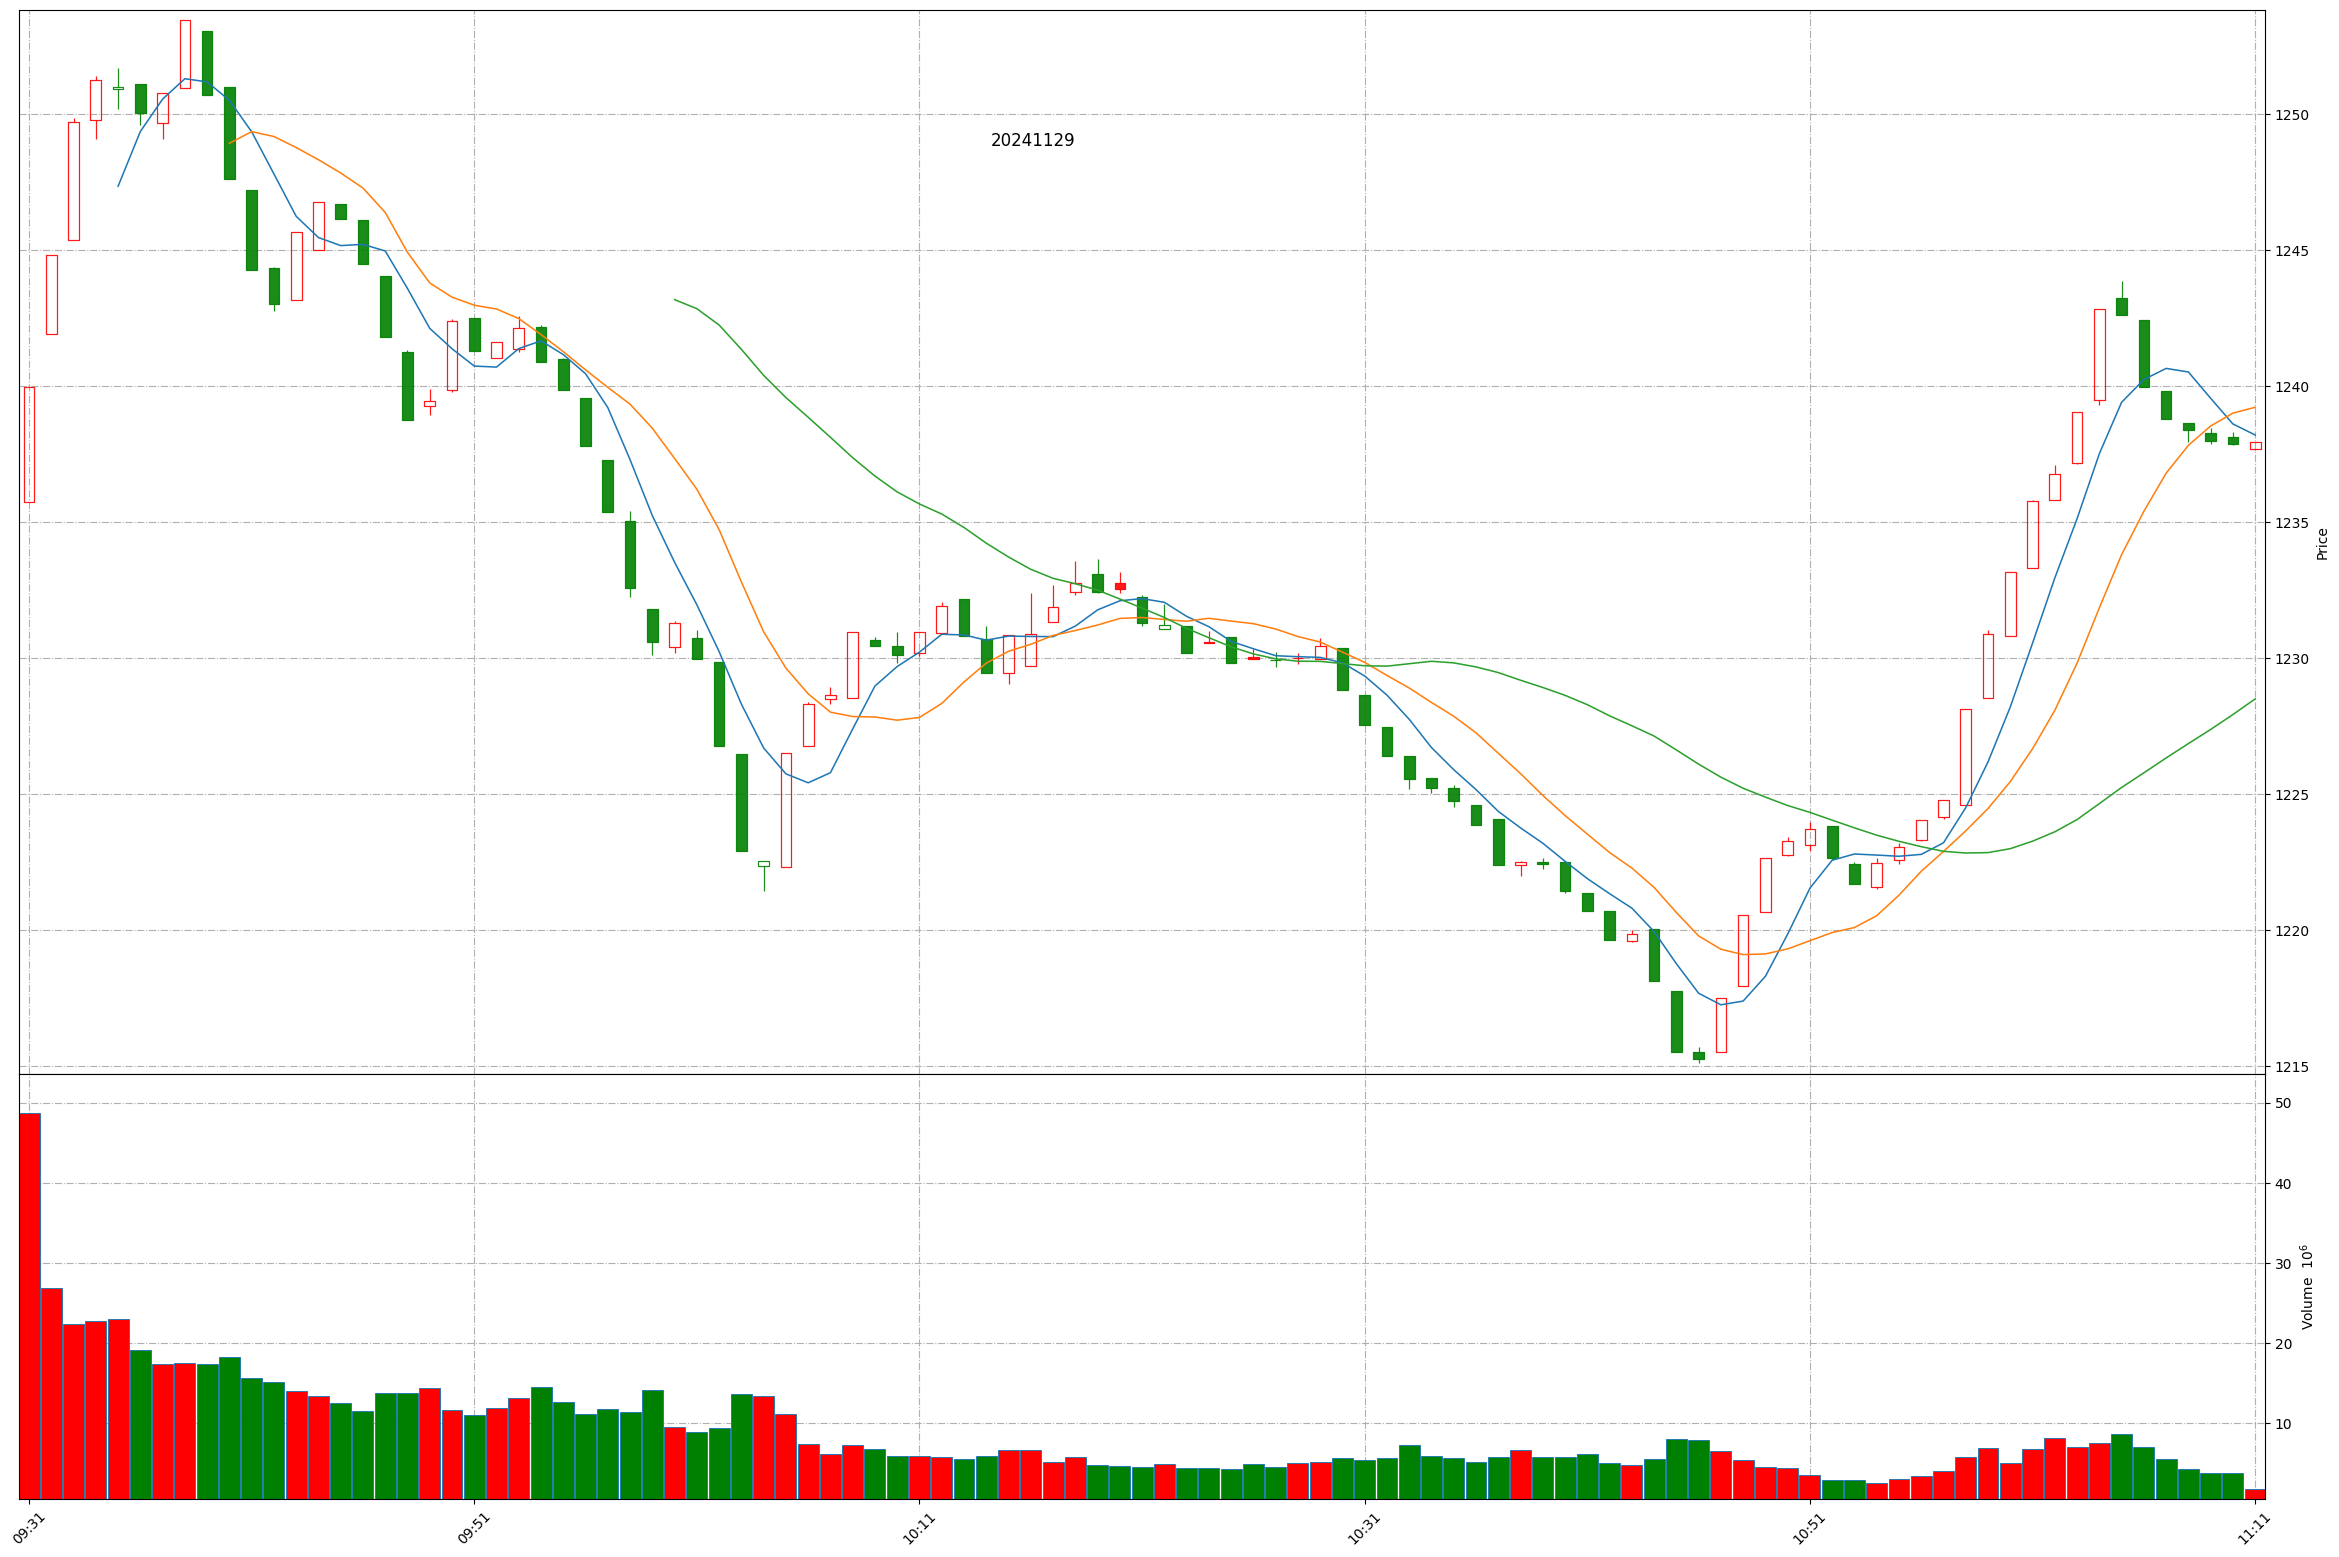
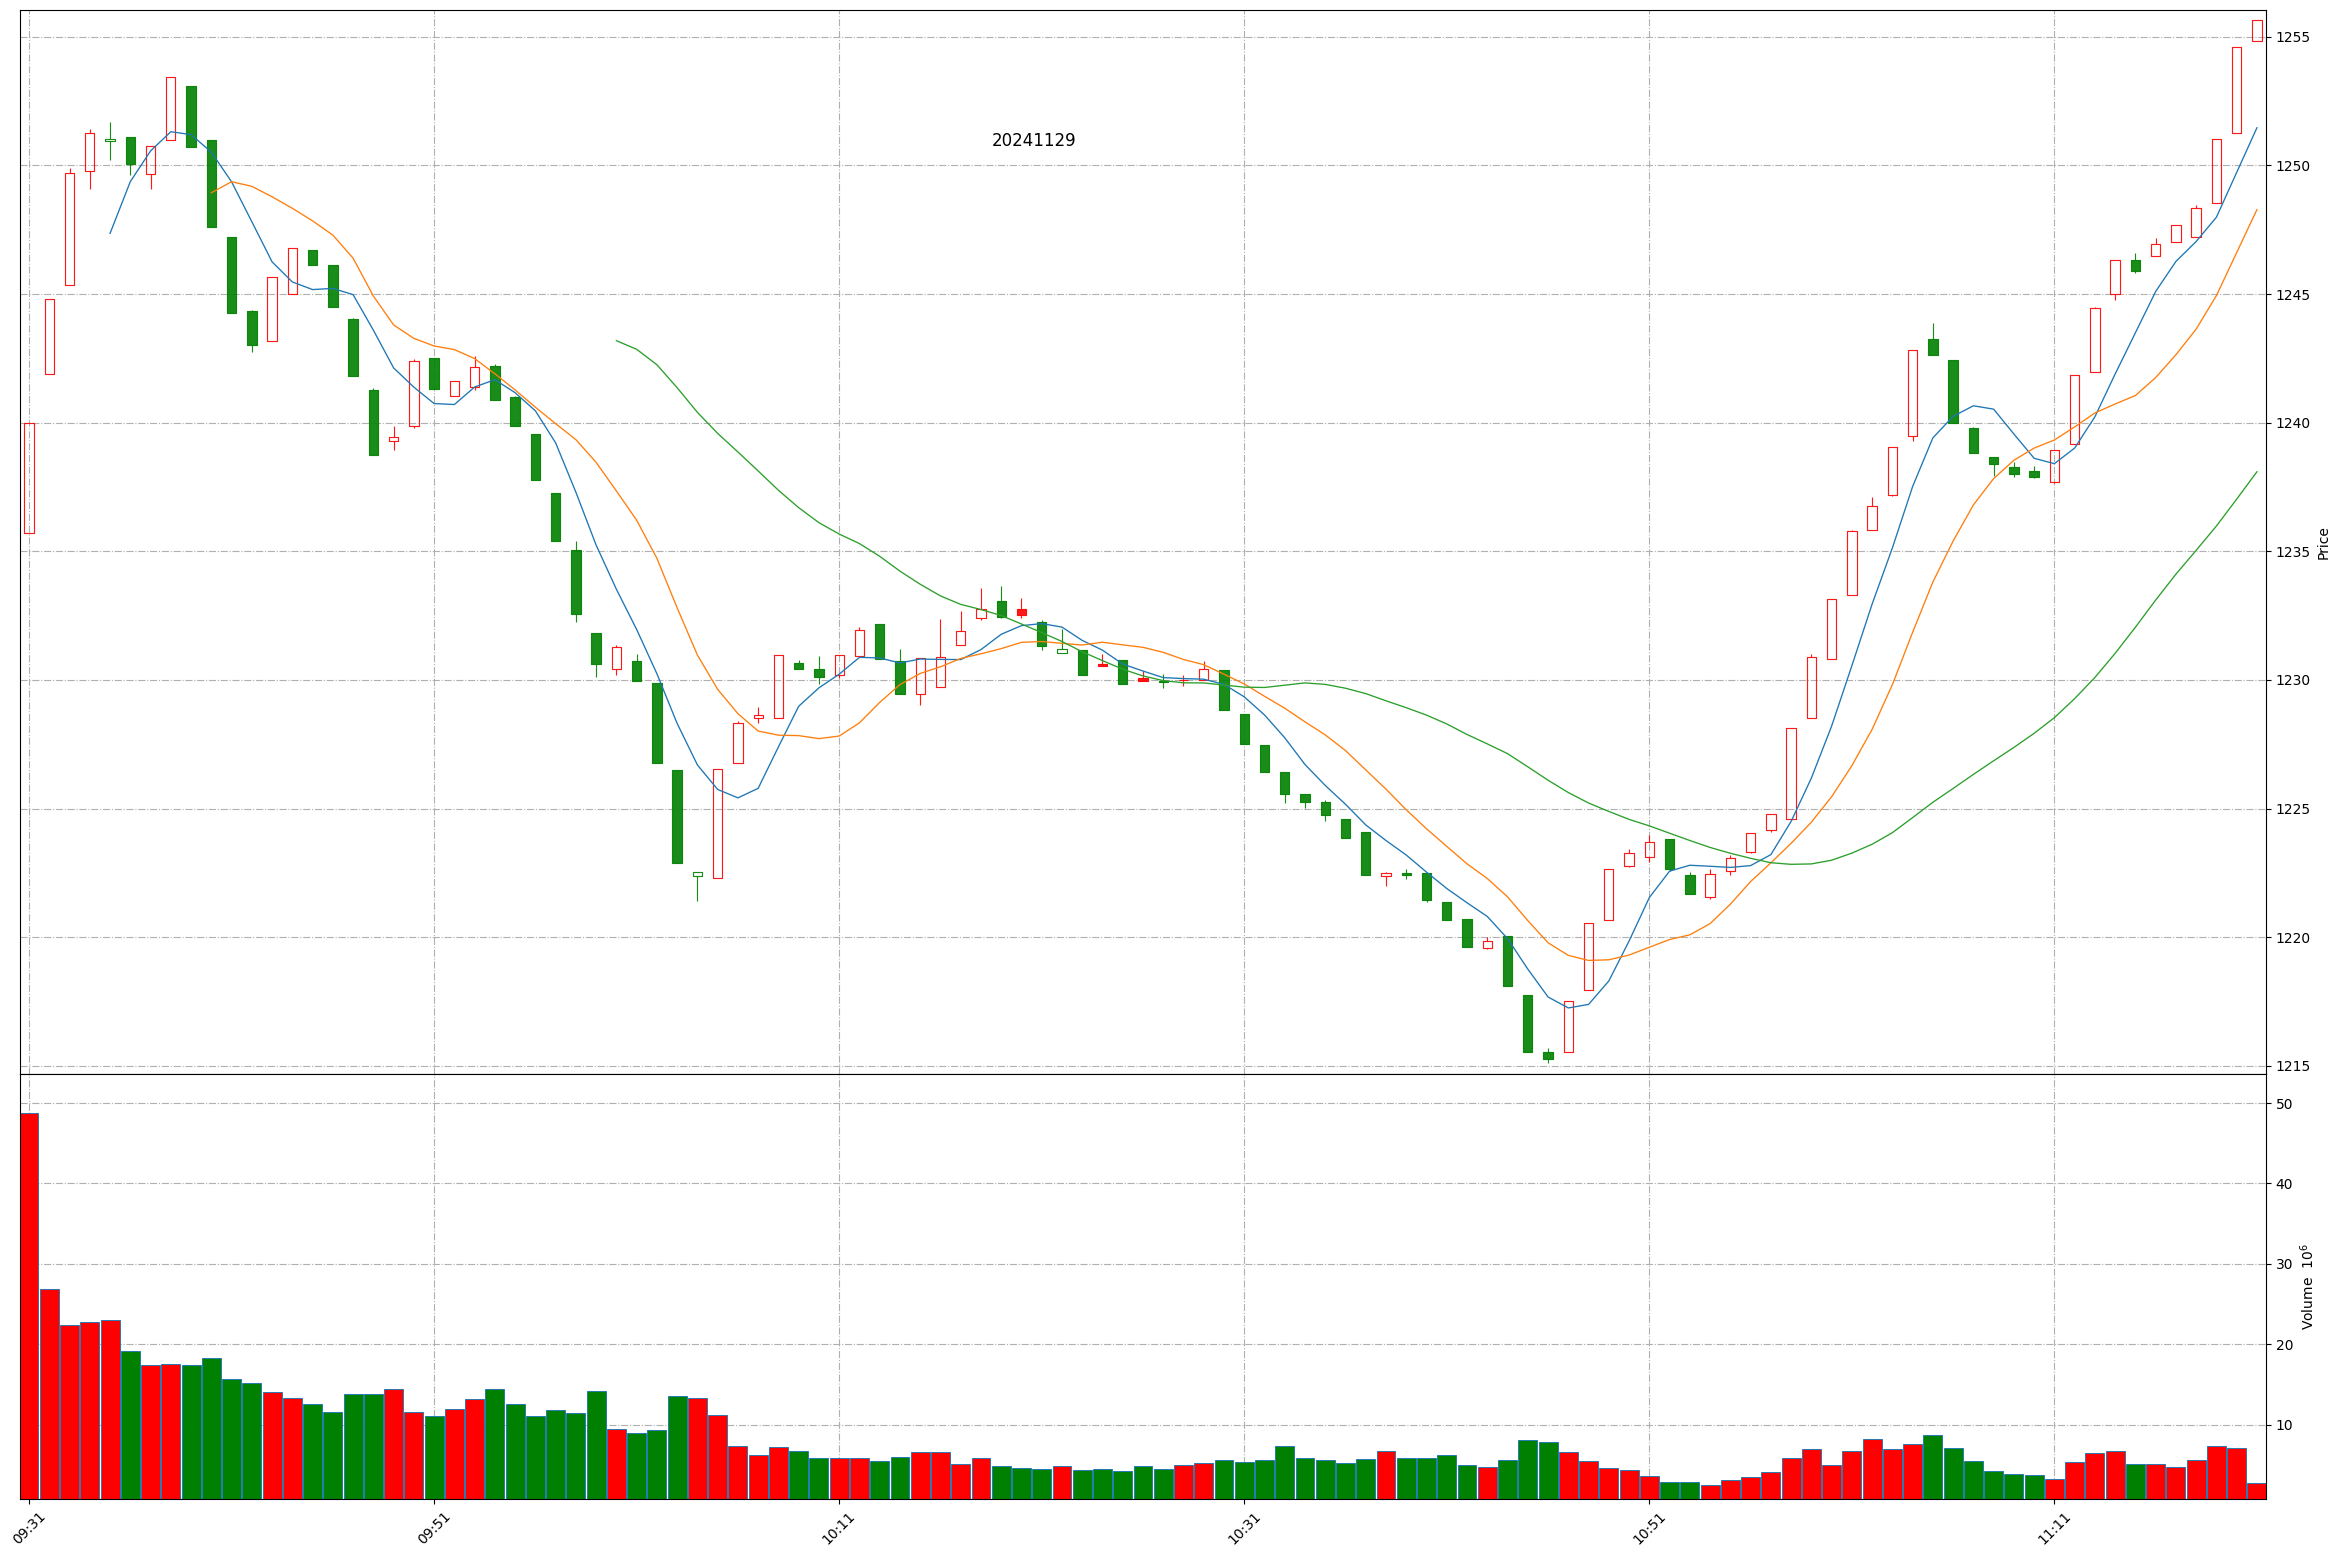
Github action update at 2024-11-29 11:20:30.

diff --git a/README.md b/README.md
@@ -1,11 +1,11 @@
 
 # Daily-A-share-market-quotes 每日 A 股指数（5min 更新）- 20241129
 
-### 上证指数 20241129 11:10
+### 上证指数 20241129 11:20
 ![](./fig/2024/11/20241129-sh000001.png)
 
-### 深证成指 20241129 11:10
+### 深证成指 20241129 11:20
 ![](./fig/2024/11/20241129-sz399001.png)
 
-### 北证50 20241129 11:10
+### 北证50 20241129 11:20
 ![](./fig/2024/11/20241129-bj899050.png)
